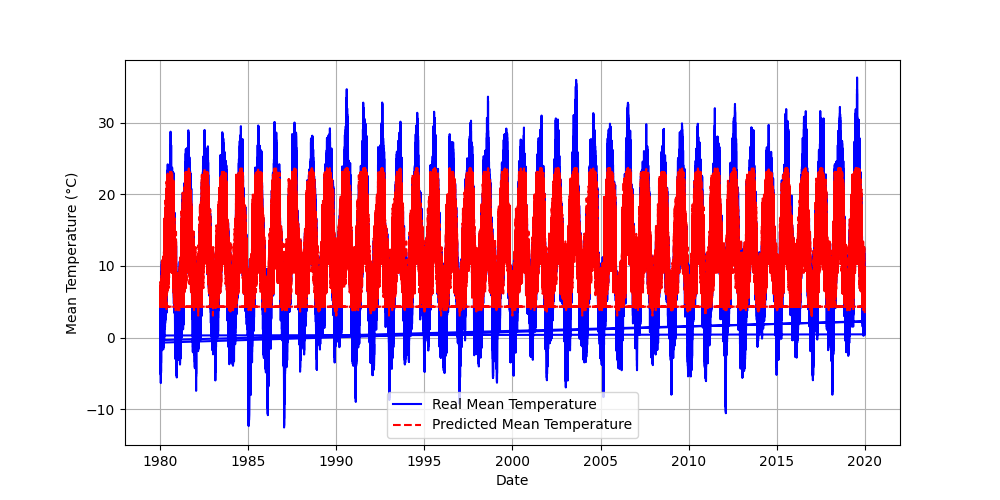
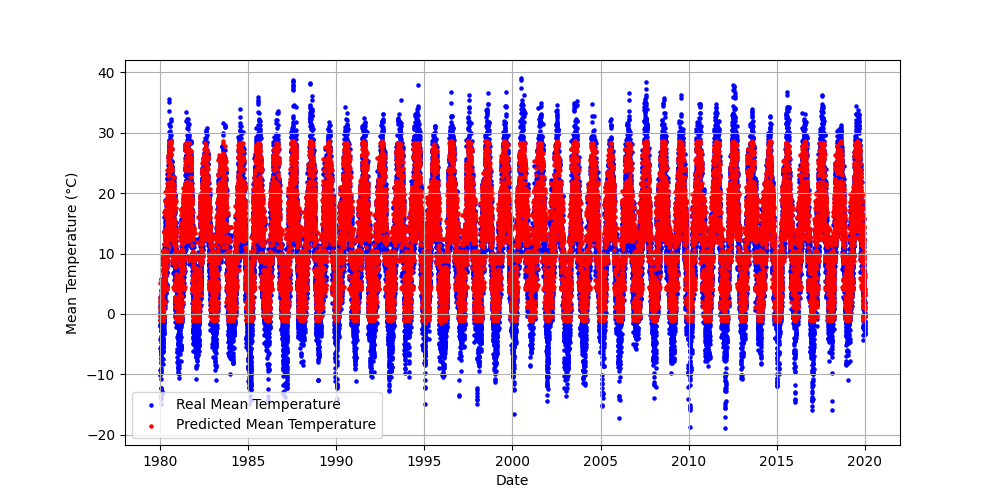
new

diff --git a/test.py b/test.py
@@ -1,51 +1,60 @@
 from pyspark.sql import SparkSession
 from pyspark.sql.functions import col, to_timestamp, avg, stddev
 from pyspark.ml.regression import RandomForestRegressor
-from pyspark.ml.feature import VectorAssembler, MinMaxScaler
+from pyspark.ml.feature import VectorAssembler
 import matplotlib.pyplot as plt
 
-spark = SparkSession.builder.appName("WeatherPrediction").getOrCreate() #We create the spark session
-df = spark.read.csv("weather_data.csv", header=True, inferSchema=True) #We read the csv file
+spark = SparkSession.builder.appName("WeatherPrediction").getOrCreate()
+
+df = spark.read.csv("weather_data.csv", header=True, inferSchema=True)
 df = df.withColumn("timestamp", to_timestamp(col("utc_timestamp"))).drop("utc_timestamp")
 df = df.dropna() 
 
-# We group the data by timestamp and calculate the mean and standard deviation of temperature and radiation
+country = 'BG'
 
 df_grouped = df.groupBy("timestamp").agg(
-    avg("FR_temperature").alias("mean_temp"),
-    stddev("FR_temperature").alias("stddev_temp"),
-    avg("FR_radiation_direct_horizontal").alias("mean_radiation_direct"),
-    avg("FR_radiation_diffuse_horizontal").alias("mean_radiation_diffuse")
+    avg(country+"_temperature").alias("mean_temp"),
+    stddev(country+"_temperature").alias("stddev_temp"),
+    avg(country+"_radiation_direct_horizontal").alias("mean_radiation_direct"),
+    avg(country+"_radiation_diffuse_horizontal").alias("mean_radiation_diffuse")
 )
-
-# assembler = VectorAssembler(inputCols=["mean_temp", "mean_radiation_direct", "mean_radiation_diffuse"], outputCol="features") #We create the vector assembler
-# df_ml = assembler.transform(df_grouped)
-# train, test = df_ml.randomSplit([0.8, 0.2], seed=42)
-# model = RandomForestRegressor(featuresCol="features", labelCol="mean_temp", numTrees=10)
-# trained_model = model.fit(train)
-# predictions = trained_model.transform(test)
-# predictions_pd = predictions.select("timestamp", "mean_temp", "prediction").toPandas()
 
 df_pandas = df_grouped.toPandas()
 
-# plt.figure(figsize=(10, 5))
-# plt.plot(predictions_pd["timestamp"], predictions_pd["mean_temp"], label="Real Mean Temperature", color='b')
-# plt.plot(predictions_pd["timestamp"], predictions_pd["prediction"], label="Predicted Mean Temperature", color='r', linestyle='--')
-# plt.xlabel("Date")
-# plt.ylabel("Mean Temperature (°C)")
-# plt.legend()
-# plt.grid()
-# plt.savefig("temperature_predictions_plot.png")
-# # plt.show()
+assembler = VectorAssembler(inputCols=["mean_temp", "mean_radiation_direct", "mean_radiation_diffuse"], outputCol="features")
+df_ml = assembler.transform(df_grouped)
 
+train, test = df_ml.randomSplit([0.9, 0.1], seed=42)
+
+model = RandomForestRegressor(featuresCol="features", labelCol="mean_temp", numTrees=10)
+trained_model = model.fit(train)
+
+predictions = trained_model.transform(test)
+
+predictions_pd = predictions.select("timestamp", "mean_temp", "prediction").toPandas()
+
+predictions_pd['error'] = abs(predictions_pd['mean_temp'] - predictions_pd['prediction'])
+
+threshold = 14
+
+alerts = predictions_pd[predictions_pd['error'] > threshold]
+
+if not alerts.empty:
+    print(f"Alert: There are {len(alerts)} instances where the prediction error exceeds {threshold}°C.")
+    print("Details of the alerts:")
+    print(alerts[['timestamp', 'mean_temp', 'prediction', 'error']])
 
 plt.figure(figsize=(10, 5))
-plt.scatter(df_pandas["timestamp"], df_pandas["mean_temp"], label="Mean Temperature FR", color='b', s=5)
+plt.scatter(predictions_pd["timestamp"], predictions_pd["mean_temp"], label="Real Mean Temperature", color='b', s=5)
+plt.scatter(predictions_pd["timestamp"], predictions_pd["prediction"], label="Predicted Mean Temperature", color='r', s=5)
 plt.xlabel("Date")
 plt.ylabel("Mean Temperature (°C)")
+plt.title("Temperature Trend: Real vs Predicted")
 plt.legend()
-plt.grid()
-plt.savefig("temperature_plot.png")
+plt.grid(True)
+plt.xticks(rotation=45)
+plt.tight_layout()
+plt.savefig("temperature_trend_plot.png")
 plt.show()
 
 plt.figure(figsize=(10, 5))
@@ -53,30 +62,30 @@ plt.scatter(df_pandas["timestamp"], df_pandas["mean_radiation_direct"], label="M
 plt.xlabel("Date")
 plt.ylabel("Mean Direct Radiation")
 plt.legend()
-plt.grid()
-plt.savefig("radiation_direct_plot.png")
-plt.show()
+plt.grid(True)
+plt.xticks(rotation=45)
+plt.tight_layout()
+plt.savefig("radiation_direct_trend_plot.png")
 
 plt.figure(figsize=(10, 5))
 plt.scatter(df_pandas["timestamp"], df_pandas["mean_radiation_diffuse"], label="Mean Diffuse Radiation", color='g', s=5)
 plt.xlabel("Date")
 plt.ylabel("Mean Diffuse Radiation")
 plt.legend()
-plt.grid()
-plt.savefig("radiation_diffuse_plot.png")
-plt.show()
+plt.grid(True)
+plt.xticks(rotation=45)
+plt.tight_layout()
+plt.savefig("radiation_diffuse_trend_plot.png")
 
 with open("README.md", "w") as f:
     f.write("# Weather Prediction Report\n\n")
     f.write("## Summary\n")
     f.write("This project uses PySpark to analyze and predict temperature trends based on weather data.\n\n")
     f.write("## Results\n")
-    f.write("### Mean Temperature Trends\n")
-    f.write("![Temperature Trends](temperature_plot.png)\n\n")
-    f.write("### Mean Direct Radiation Trends\n")
-    f.write("![Direct Radiation Trends](radiation_direct_plot.png)\n\n")
-    f.write("### Mean Diffuse Radiation Trends\n")
-    f.write("![Diffuse Radiation Trends](radiation_diffuse_plot.png)\n\n")
+    f.write("### Temperature Trend\n")
+    f.write("![Temperature Trend](temperature_trend_plot.png)\n\n")
+    f.write("### Mean Direct Radiation Trend\n")
+    f.write("![Direct Radiation Trend](radiation_direct_trend_plot.png)\n\n")
+    f.write("### Mean Diffuse Radiation Trend\n")
+    f.write("![Diffuse Radiation Trend](radiation_diffuse_trend_plot.png)\n\n")
     f.write("### Model Performance\n")
-#     predictions_str = predictions.select("mean_temp", "prediction").toPandas().to_string(index=False)
-#     f.write(predictions_str)

diff --git a/README.md b/README.md
@@ -4,13 +4,13 @@
 This project uses PySpark to analyze and predict temperature trends based on weather data.
 
 ## Results
-### Mean Temperature Trends
-![Temperature Trends](temperature_plot.png)
+### Temperature Trend
+![Temperature Trend](temperature_trend_plot.png)
 
-### Mean Direct Radiation Trends
-![Direct Radiation Trends](radiation_direct_plot.png)
+### Mean Direct Radiation Trend
+![Direct Radiation Trend](radiation_direct_trend_plot.png)
 
-### Mean Diffuse Radiation Trends
-![Diffuse Radiation Trends](radiation_diffuse_plot.png)
+### Mean Diffuse Radiation Trend
+![Diffuse Radiation Trend](radiation_diffuse_trend_plot.png)
 
 ### Model Performance
